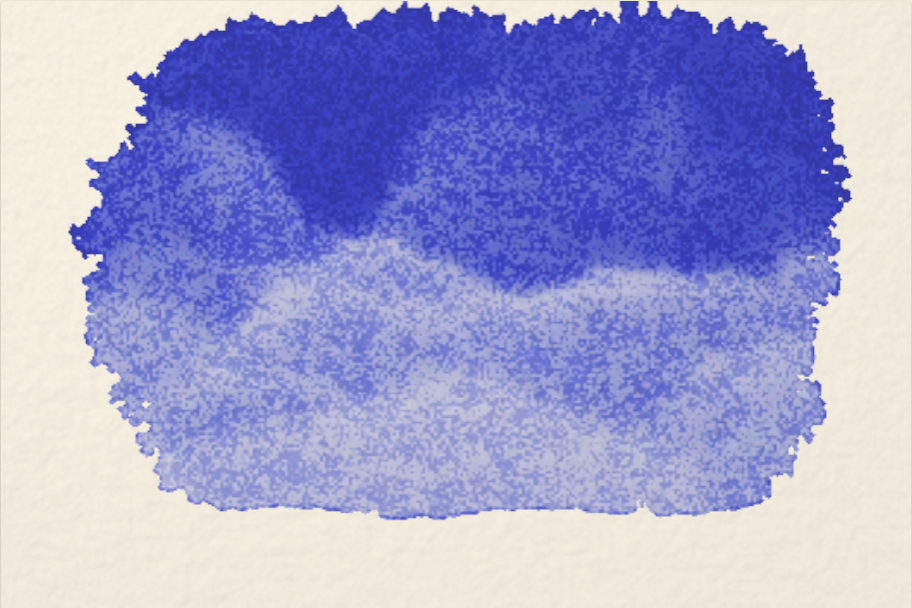
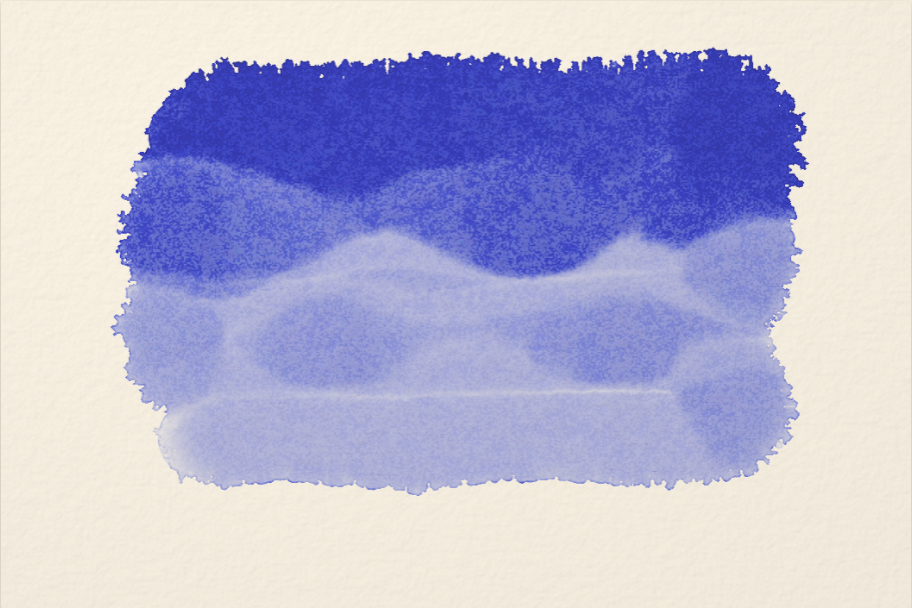
Render figures at the app's full simulation resolution
The critic rounds ran on half-resolution software-GL renders, and their
most persistent complaint — same-frequency noise, blocky clumps — was
partly the harness degrading the model. Figures and the OG card now render
at the true 1056×704 grid; npm run figures defaults to it. Also quiets the
uniform per-pixel grain and pools baked granulation with the paint.

Claude-Session: https://claude.ai/code/session_012ompEi3v5WLgYN66qUixCH

diff --git a/src/engine/shaders.ts b/src/engine/shaders.ts
@@ -378,6 +378,7 @@ void main() {
   // reflectance itself, the sediment speckle ghosts through every later
   // glaze — a real sheet never forgets its texture.
   float gran = clamp(texture(uSusP, vUV).y / max(susK.a, 1e-5), 0.0, 1.0);
+  gran *= clamp(pigment * 2.2, 0.15, 1.0); // speckle pools with the paint
   vec2 paper = texture(uPaper, vUV).rg;
   float pit = smoothstep(0.62, 0.32, paper.r * 0.55 + paper.g * 0.45);
   float thickness = 1.0 + gran * (0.9 * pit - 0.35);
@@ -577,7 +578,7 @@ void main() {
   vec3 normal = normalize(vec3((hL - hR) * 2.2, (hD - hU) * 2.2, 1.0));
   vec3 lightDir = normalize(vec3(-0.45, 0.55, 0.9));
   float relief = 0.85 + 0.15 * dot(normal, lightDir);
-  float microGrain = 0.955 + 0.045 * paper.g + uZoomGrain * (hash12(gl_FragCoord.xy) - 0.5);
+  float microGrain = 0.97 + 0.03 * paper.g + uZoomGrain * (hash12(gl_FragCoord.xy) - 0.5);
   // The room's light is not perfectly even across a sheet this size: a
   // gentle falloff away from the light corner keeps the field from reading
   // as a synthetic flat.
@@ -596,7 +597,7 @@ void main() {
   // Weighted toward the structured height octaves rather than the 1px fine
   // grain: pigment texture clumps at fiber scale, it is not white noise.
   float driedPaint = clamp(dried.a * 1.6, 0.0, 1.0);
-  float tooth = 1.0 + ((paper.g - 0.5) * 0.12 + (0.5 - paper.r) * 0.26) * driedPaint;
+  float tooth = 1.0 + ((paper.g - 0.5) * 0.07 + (0.5 - paper.r) * 0.22) * driedPaint;
   vec3 base = dried.rgb * tooth * relief * microGrain * illum * wetDarken;
 
   // Live wet layer: suspension plus fresh deposit as one KM film. The

diff --git a/src/engine/simulation.ts b/src/engine/simulation.ts
@@ -91,7 +91,7 @@ export const DEFAULT_PARAMS: Params = {
   saltLift: 0.5,
   edgeSettle: 14,
   substeps: 3,
-  zoomGrain: 0.012,
+  zoomGrain: 0.006,
 }
 
 const WATER_SCALE = 0.055;

diff --git a/docs/session-log.md b/docs/session-log.md
@@ -128,6 +128,17 @@ angular stars with real reach, quinacridone rose nudged off magenta, and
 the wet-on-wet scene re-choreographed so the blooms actually meet and
 mingle.
 
+**Resolution was a silent variable in every verdict.** The critic rounds
+were run on half-resolution renders (SwiftShader economics), and the
+critics' most persistent complaint — blocky clumps, same-frequency noise
+everywhere, scale mismatch between texture and feature — was partly the
+harness, not the model: at the app's real 1056×704 grid the paper's
+octaves sit at the right scale and the same physics reads as fine sediment
+and delicate drybrush breakup. The shipped figures render at full
+resolution for this reason, and `npm run figures` now defaults to it.
+Lesson recorded for the next experiment: never let the evaluation pipeline
+degrade the thing being evaluated.
+
 **The hero figure took eight attempts** — not because the physics failed
 but because scripted *painting* is hard: a representational landscape kept
 collapsing into stacked ribbons as every stroke spread twice its brush
